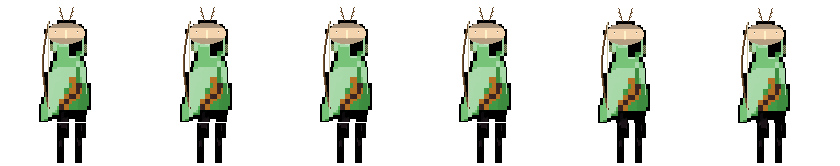
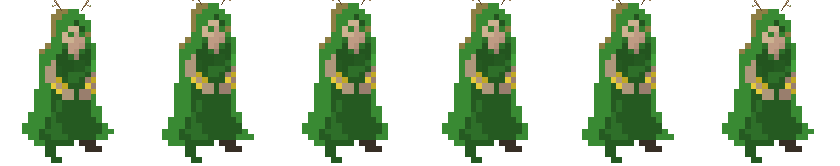
CAS-238 (Art): produce 4 class heroes at Clarice fidelity (hybrid, CEO-approved)
mage/druid/priest/paladin now ship real source-derived idle/walk/attack/death strips
instead of the CAS-167 procedural hooded recolors:
  priest  ← healer pack, cream/gold + halo
  druid   ← healer pack, forest-green + antlers
  mage    ← healer pack, arcane purple + pointed hat + staff/orb (CEO silhouette gate)
  paladin ← Clarice base, holy-gold armour + chest cross (steel legs kept)
Sliced by tools/cas238-class-strips.mjs (generalizes cas223: per-class src/rows/recolor +
per-frame silhouette accents, accents suppressed on collapsed death frames).
Wired by registering all 5 classes in CLARICE_CLASSES (skip part-mask re-bake) +
CLASS_EXTRA_ANIM (load attack/death) — no render-path/geometry change.
Closes CAS-236.

diff --git a/render/render.js b/render/render.js
@@ -92,8 +92,12 @@ const CLASS_HERO_KEYS=["warrior","paladin","mage","druid","priest"];
 // Art Director's Drive intake (CAS-221), baked into the class-cell strips by
 // tools/cas223-clarice-strips.mjs. Unlike the other (recolorable hooded) classes she
 // ships dedicated ATTACK + DEATH strips and is NOT driven by the part-mask bake.
-const CLARICE_CLASSES=new Set(["warrior"]);
-const CLASS_EXTRA_ANIM=["warrior"];          // classes with clsattack_/clsdeath_ strips
+// CAS-238: all 5 classes are now fixed, hand-authored-source character art (warrior=Clarice;
+// mage/druid/priest/paladin = healer-pack & Clarice-derived strips, CEO-approved hybrid).
+// Listed here = SKIP the CAS-167/169 procedural part-mask re-bake (which would overwrite the
+// loaded source strips with the hooded base) AND load their dedicated attack/death strips.
+const CLARICE_CLASSES=new Set(["warrior","paladin","mage","druid","priest"]);
+const CLASS_EXTRA_ANIM=["warrior","paladin","mage","druid","priest"]; // classes with clsattack_/clsdeath_ strips
 const CLASS_ATTACK_FC=6, CLASS_DEATH_FC=6, CLASS_DEATH_DUR=0.7; // Clarice extra-anim frame counts
 // input owns the UI hit-rects + touch state/layout; render writes rects, reads layout.
 import { ui, stick, tbtns, topBtns, isTouch } from "../input.js";
